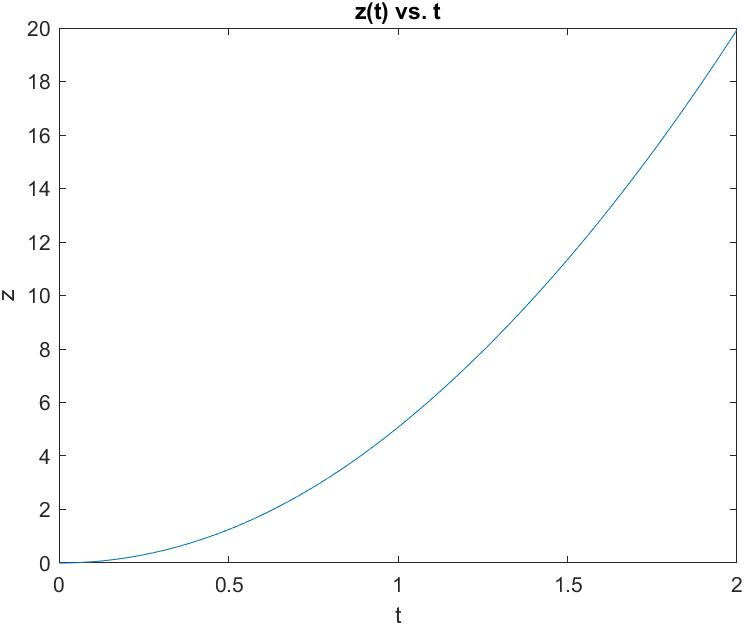
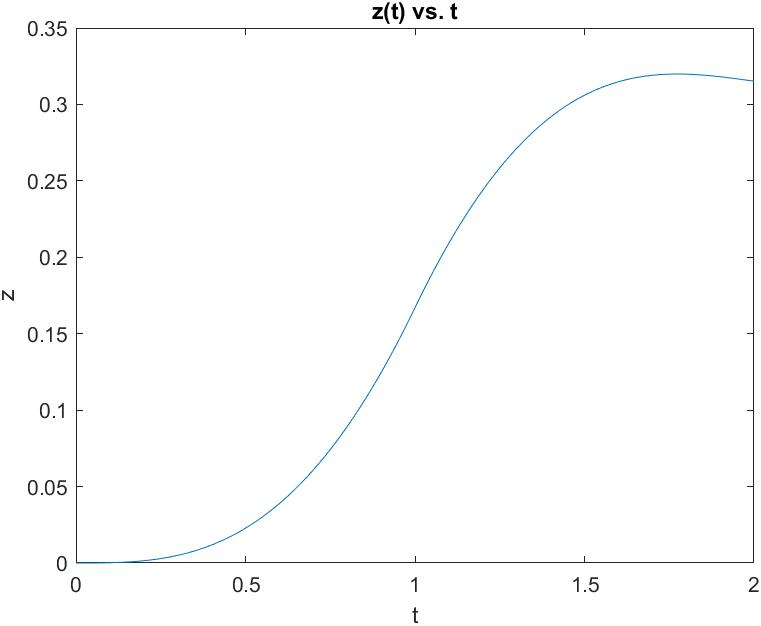
added g to the state space think it makes it work right

diff --git a/AERSP304_Proj2.m b/AERSP304_Proj2.m
@@ -19,7 +19,7 @@ I = [ 4.85*10^-3 , 0, 0 ;
 % setting ODE45 options
 options = odeset('reltol',1e-12,'abstol',1e-12);
 
-% Part A
+% Question 1 Part A
 t = linspace(0,2,1000) ;
 [t,z] = ode45(@(t,z) Q1afun(t,z), t , [0,0] , options);
 
@@ -30,6 +30,9 @@ xlabel('t');
 ylabel('z');
 ax = gca ;
 exportgraphics(ax,'Q1A.jpg')
+
+%Question 2 Part B
+
 
 
 function    rDot = Q1afun(t,z)
@@ -47,9 +50,9 @@ function    rDot = Q1afun(t,z)
     
     z1dot = z2;
     if t < 1 
-        z2dot = (4 * k)/m * (OmegaH + 70 * sin(0.5 * pi * t))^2;
+        z2dot = ((4 * k)/m * (OmegaH + 70 * sin(0.5 * pi * t))^2) - g ;
     elseif t >= 1 
-        z2dot = (4 * k)/m * (OmegaH - 77 * sin(0.5 * pi * t))^2;
+        z2dot = ((4 * k)/m * (OmegaH - 77 * sin(0.5 * pi * t))^2) - g ;
     end
     
     % return
